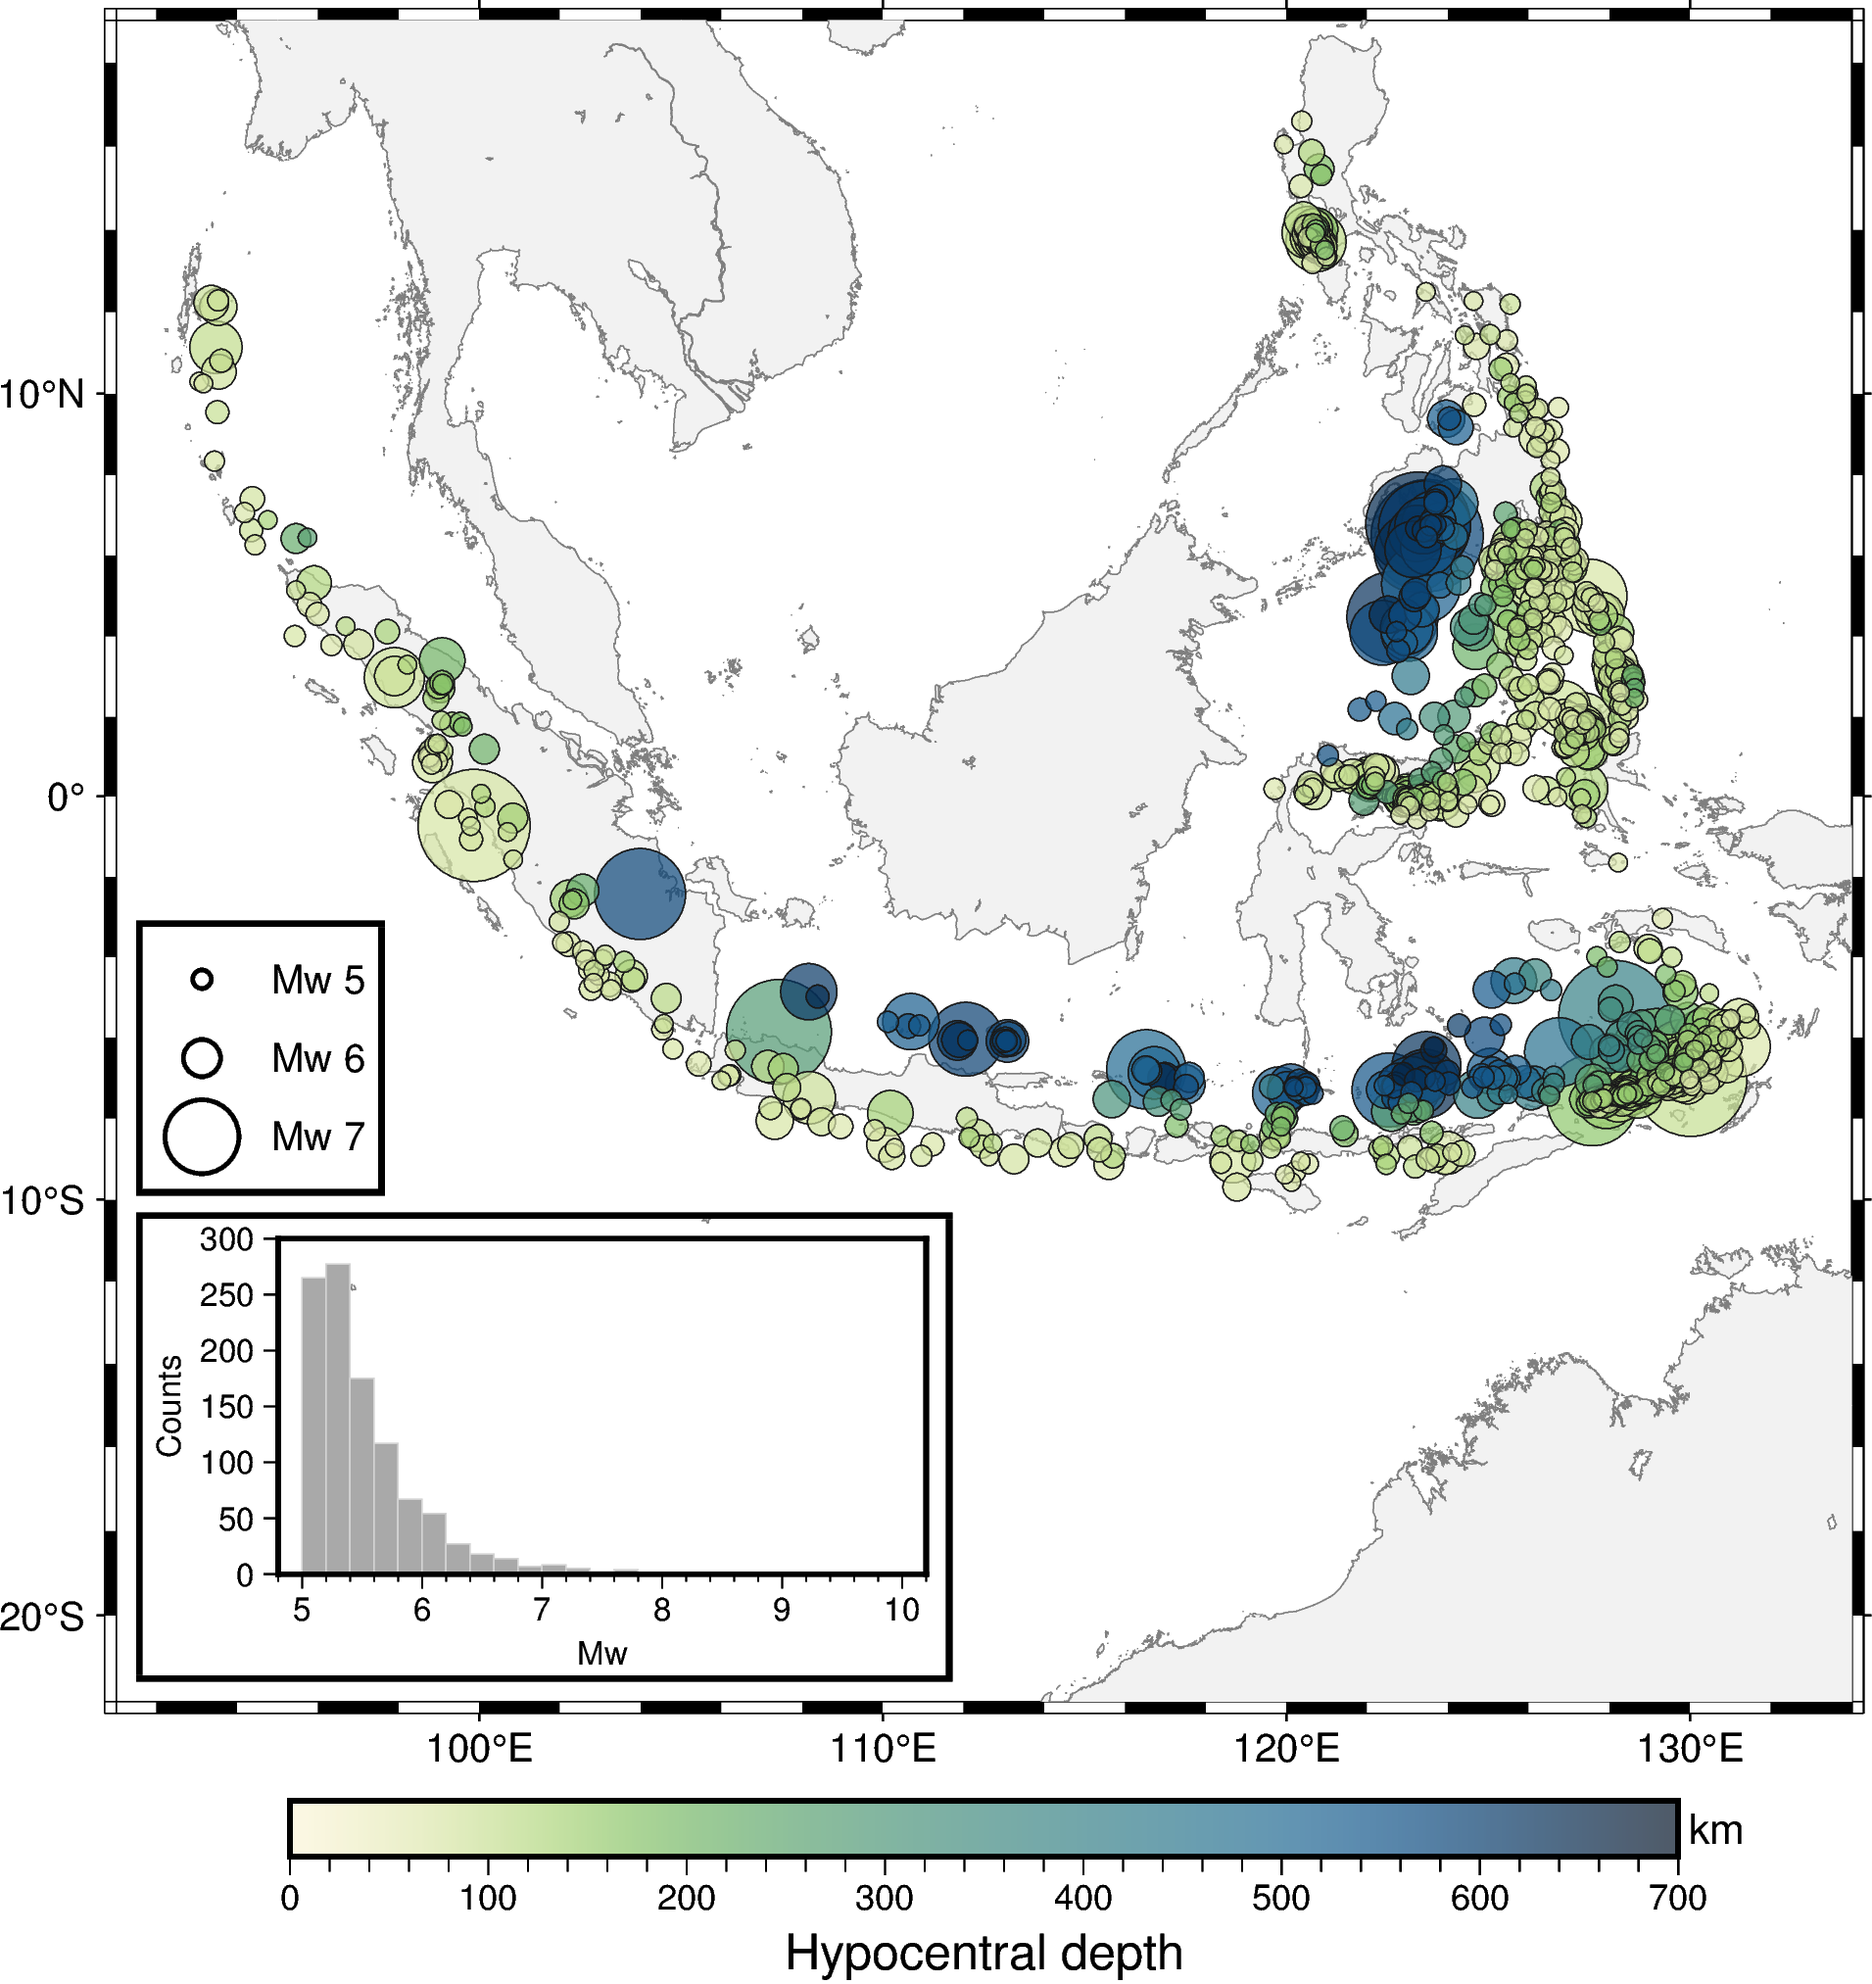
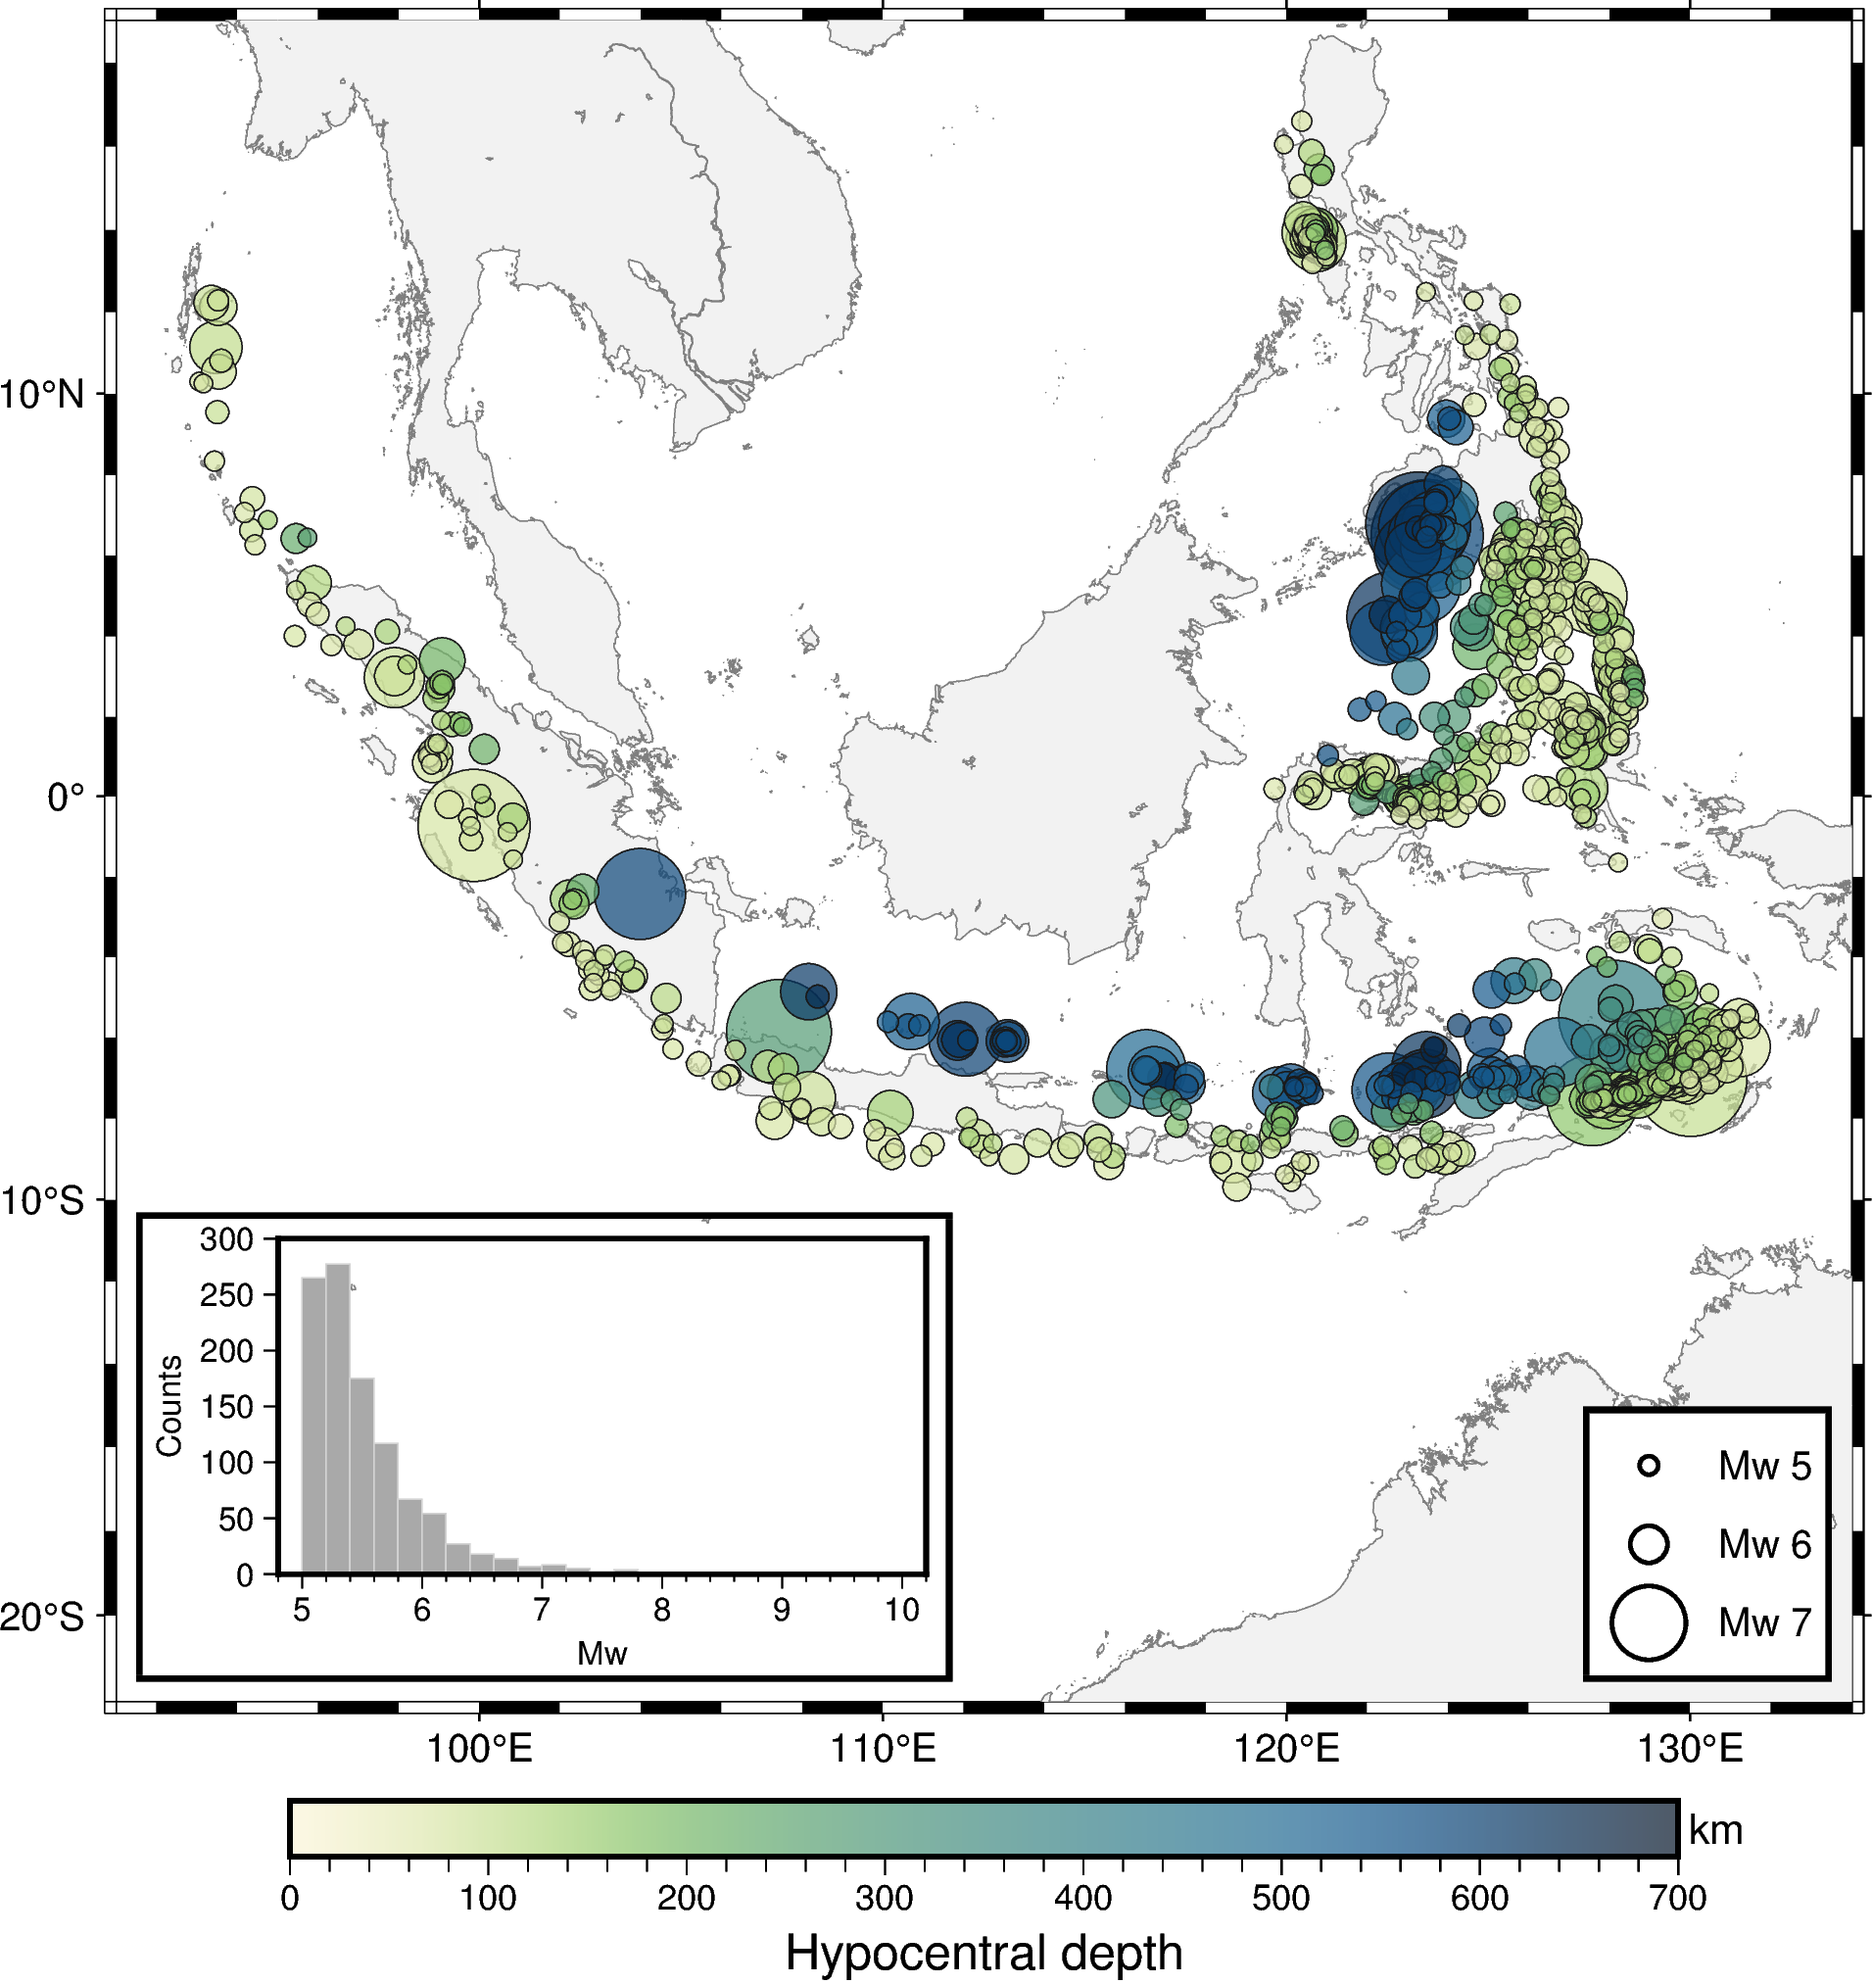
Move legend box back and fill it with white color

Changed region(s): [[0.8336, 0.6844, 0.988, 0.8711], [0.0617, 0.4667, 0.2161, 0.6222]]

diff --git a/Fig4_PyGMT_pandas.py b/Fig4_PyGMT_pandas.py
@@ -3,6 +3,7 @@ import io
 import pygmt
 import pandas as pd
 import requests
+from pygmt.params import Box
 
 url = "https://earthquake.usgs.gov/fdsnws/event/1/query"
 params = {
@@ -41,7 +42,7 @@ fig.plot(
 legend = io.StringIO(
     "\n".join(f"S 0.4 c {0.005 * 2**mag:.2f} - 1p 1 Mw {mag}" for mag in [5, 6, 7])
 )
-fig.legend(spec=legend, position="jBL+jBL+o0.2c/4.4c+l2", box=True)
+fig.legend(spec=legend, position="jBR+o0.2c+l2", box=Box(fill="white", pen="black"))
 
 # Add histogram for moment magnitude distribution
 with fig.inset(position="jBL+w7c/4c+o0.2c", margin=(1.2, 0.2, 0.9, 0.2), box=True):
